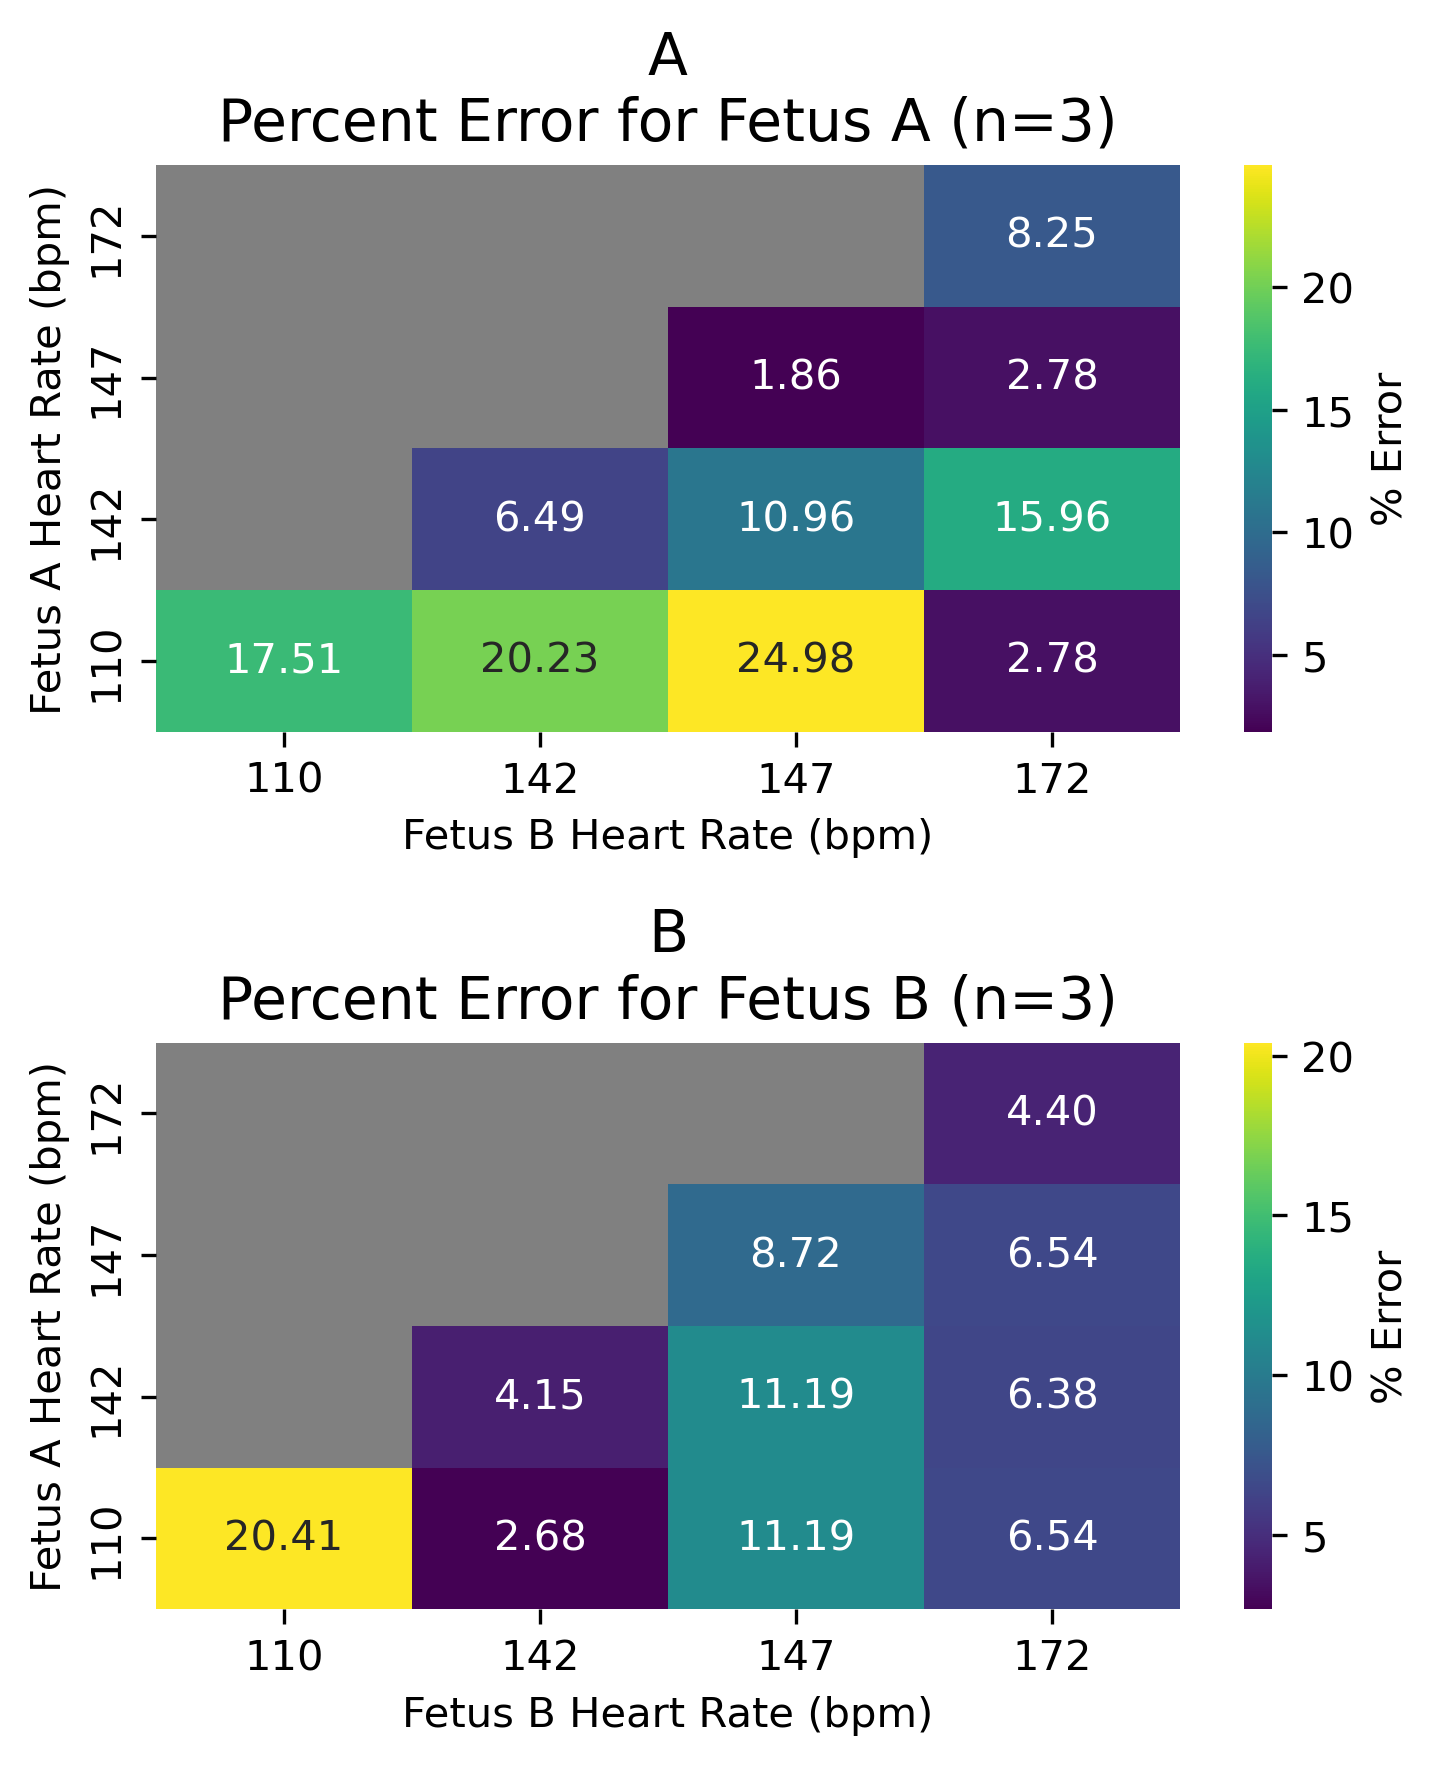
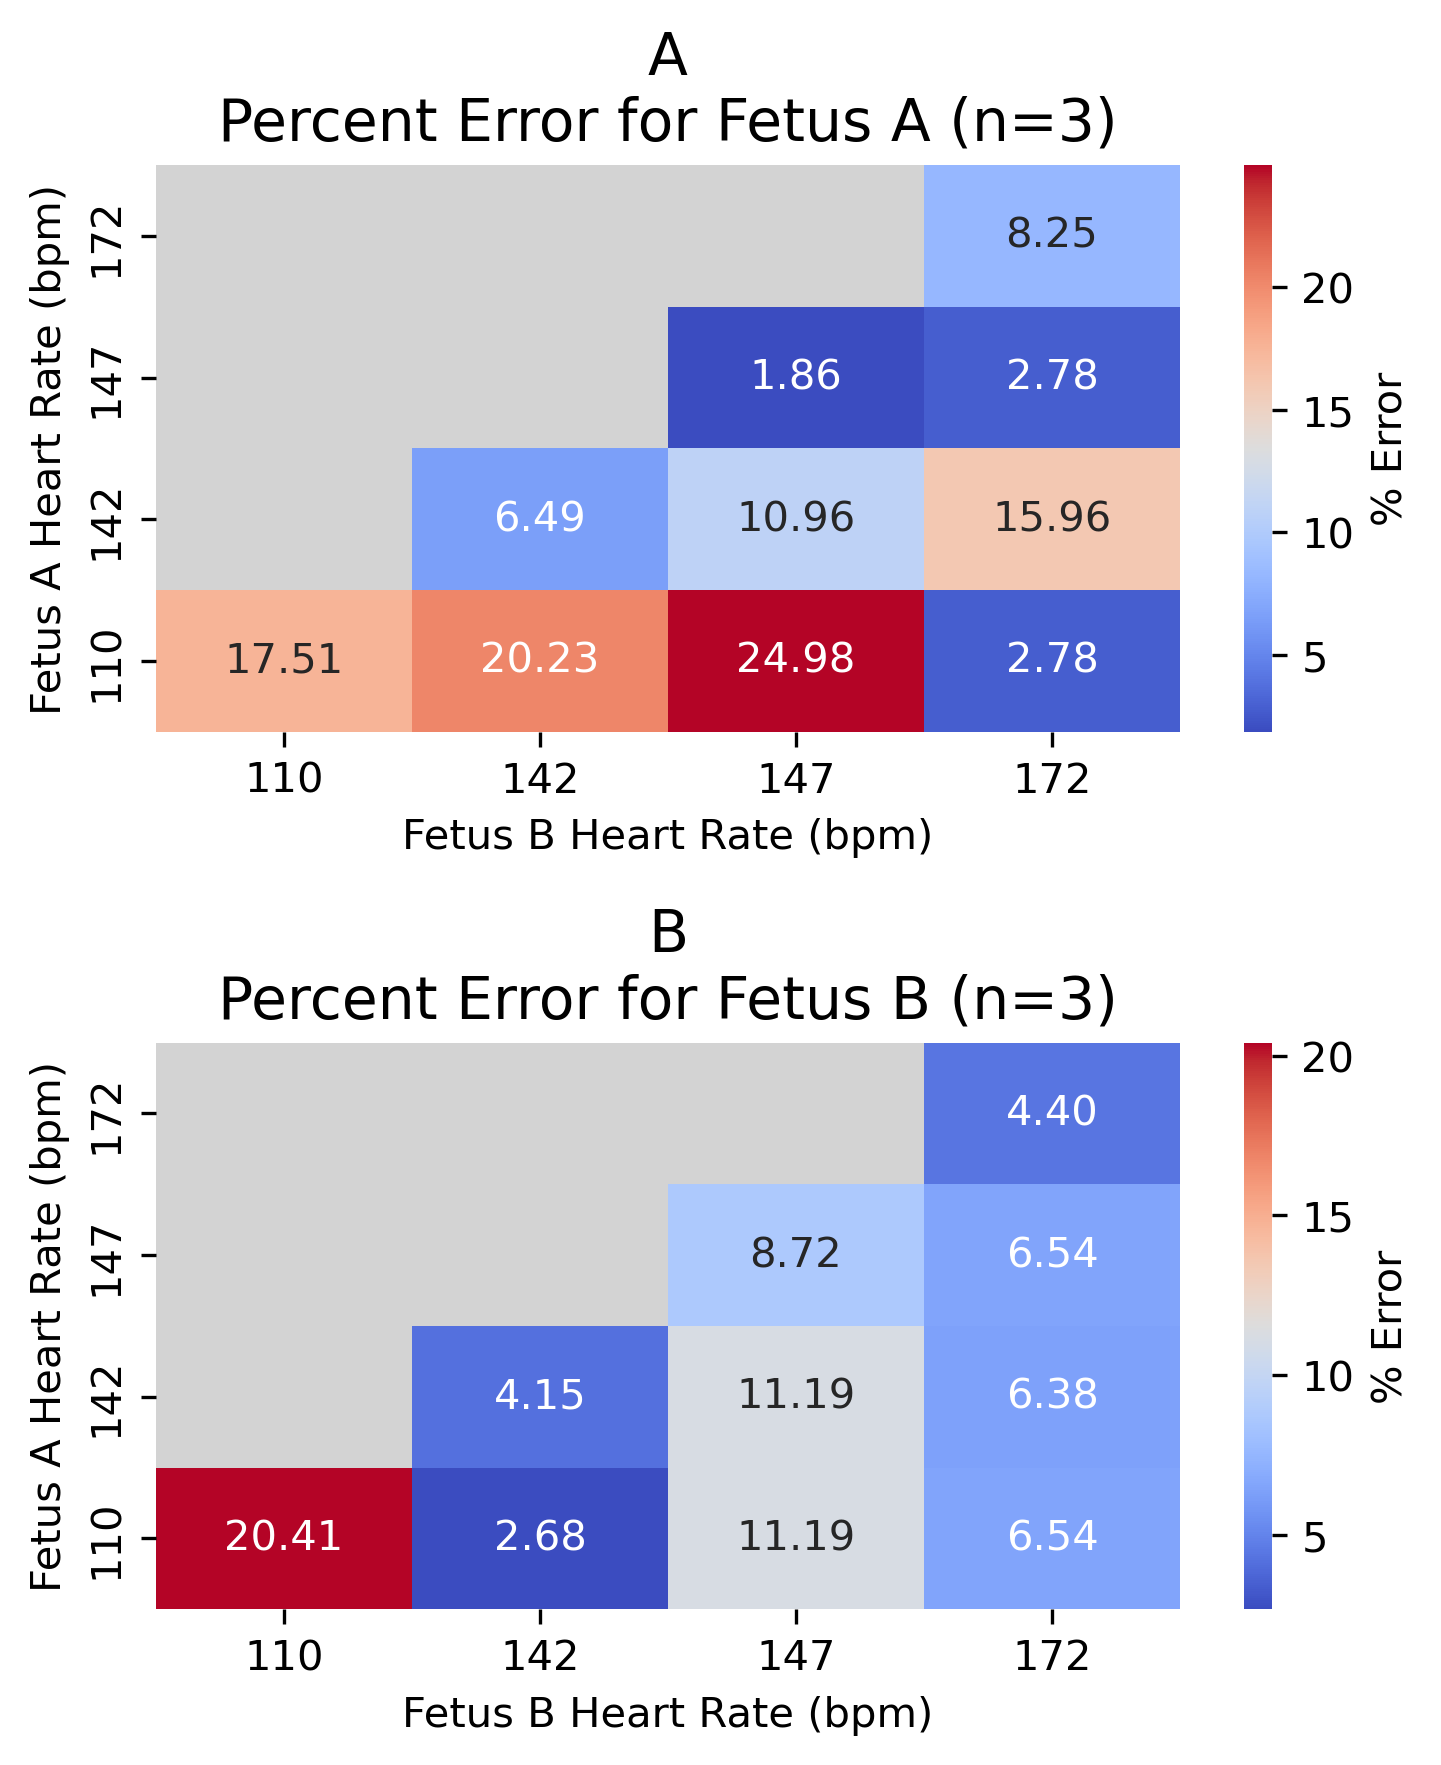
final fix

diff --git a/filtering.py b/filtering.py
@@ -74,19 +74,30 @@ cleaned_data.to_csv('filtered/filtered_piezo_voltage_log-1&3-t1.csv', index=Fals
 print("Cleaned data saved to 'cleaned_piezo_voltage_log.csv'.")
 
 # === Plot original and cleaned data for each sensor ===
-plt.figure(figsize=(8, 6))
+plt.figure(figsize=(10, 8))
+
 for i, sensor in enumerate(sensor_columns, 1):
-    plt.subplot(len(sensor_columns), 1, i)
+    ax = plt.subplot(len(sensor_columns), 1, i)
     plt.plot(df['Timestamp_s'], df[sensor], label='Original', alpha=0.5)
     plt.plot(cleaned_data['Timestamp_s'], cleaned_data[sensor], label='Cleaned', color='red')
-    plt.title(sensor)
-    plt.xlabel('Time (s)')
-    plt.ylabel('Voltage (V)')
-    # Show legend only in the first subplot
+    plt.title(f'Piezo #{i}')
+
+    # Only show legend on the first subplot
     if i == 1:
         plt.legend()
-    plt.tight_layout()
+
+    # Remove individual x and y labels
+    if i != len(sensor_columns):
+        ax.set_xlabel('')
+    if i != 1:
+        ax.set_ylabel('')
+
+# Add shared x and y labels for the whole figure
+plt.xlabel('Time (s)', fontsize=12, labelpad=20)
+plt.ylabel('Voltage (V)', fontsize=12, labelpad=30)
+plt.tight_layout(rect=[0, 0, 1, 0.97])  # leave space for labels
 plt.show()
+
 
 # === Get data ===
 time_unfiltered = df['Timestamp_s']

diff --git a/Loc Error.py b/Loc Error.py
@@ -16,8 +16,8 @@ sensor_coords = np.array([
 
 # True speaker locations and colors
 true_locations = {
-    'A': {'coords': [7, 16], 'color': 'red', 'label': 'Speaker 1 (A)'},
-    'B': {'coords': [7, 6], 'color': 'blue', 'label': 'Speaker 2 (B)'}
+    'A': {'coords': [7, 16], 'color': 'red', 'label': 'Source A'},
+    'B': {'coords': [7, 6], 'color': 'blue', 'label': 'Source B'}
 }
 
 # Create figure
@@ -25,7 +25,7 @@ fig, ax = plt.subplots(figsize=(4, 5))
 ax.set_xlim(0, 14)
 ax.set_ylim(0, 22)
 ax.set_aspect('equal')
-ax.set_title("True and Estimated Speaker Locations with Sensor Positions")
+ax.set_title("Estimated Source Locations")
 ax.set_xlabel("X (cm)")
 ax.set_ylabel("Y (cm)")
 
@@ -49,6 +49,7 @@ for speaker, info in true_locations.items():
     ax.text(true_x + 0.3, true_y + 0.3, info['label'], color=color, fontsize=10, fontweight='bold')
 
     error_radius = np.mean(np.sqrt((est_x - true_x) ** 2 + (est_y - true_y) ** 2))
+    print(error_radius)
     circle = plt.Circle((true_x, true_y), error_radius, color=color, alpha=0.2, label=f"{info['label']} Error Range")
     ax.add_patch(circle)
 

diff --git a/FHR Error.py b/FHR Error.py
@@ -18,9 +18,9 @@ pivot_B = avg_error_df[avg_error_df['Speaker'] == 'B'].pivot(
 pivot_A = pivot_A.sort_index(ascending=False).sort_index(axis=1)
 pivot_B = pivot_B.sort_index(ascending=False).sort_index(axis=1)
 
-# Create custom colormap with grey for NaNs
-cmap = sns.color_palette("viridis", as_cmap=True)
-cmap.set_bad(color='gray')
+# Create a red-blue colormap (low = blue, high = red)
+cmap = sns.color_palette("coolwarm", as_cmap=True)  # blue to red
+cmap.set_bad(color='lightgray')  # set color for NaNs
 
 # Plot
 fig, axs = plt.subplots(2, 1, figsize=(5, 6))
